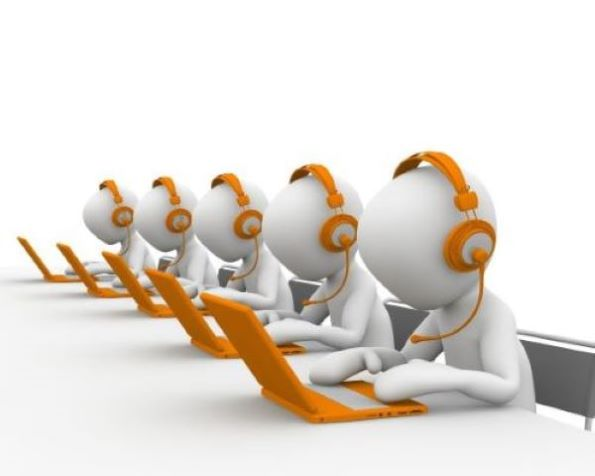
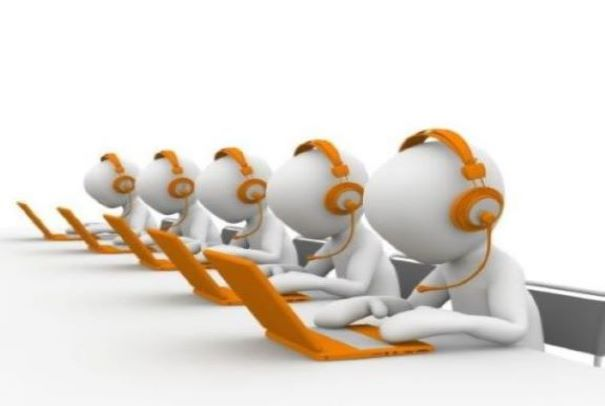
newhomepage

diff --git a/index.html b/index.html
@@ -42,7 +42,7 @@
         <header class="masthead">
             <div class="container h-100">
                 <div class="row h-100">
-                    <img class="img-fluid" src="imgs/updated homepage-min.jpg" alt="" />
+                    <img class="img-fluid" src="imgs/homnew-min (1).png" alt="" />
                     <div class="col-lg-7 my-auto">
                         <div class="header-content mx-auto">Greetings everyone and welcome to my IT website Project 0. It has been a great learning experience in Web Technologies course (CIT-82). My goal during this semester is to transform my future IT business ideas into a website and coming to end of this course I was able to build a site which I am proud of because of the new skills that I did acquired.  My hope is that the IT business idea I have it will become a reality in the future.  At my company the Wakanda IT Solutions (WIS), we plan to provide our clients with variety of IT support in areas of networking, troubleshooting, and network security and management, so again welcome and enjoy touring the site.</div>
                         <h1 class="mb-5"></h1>
